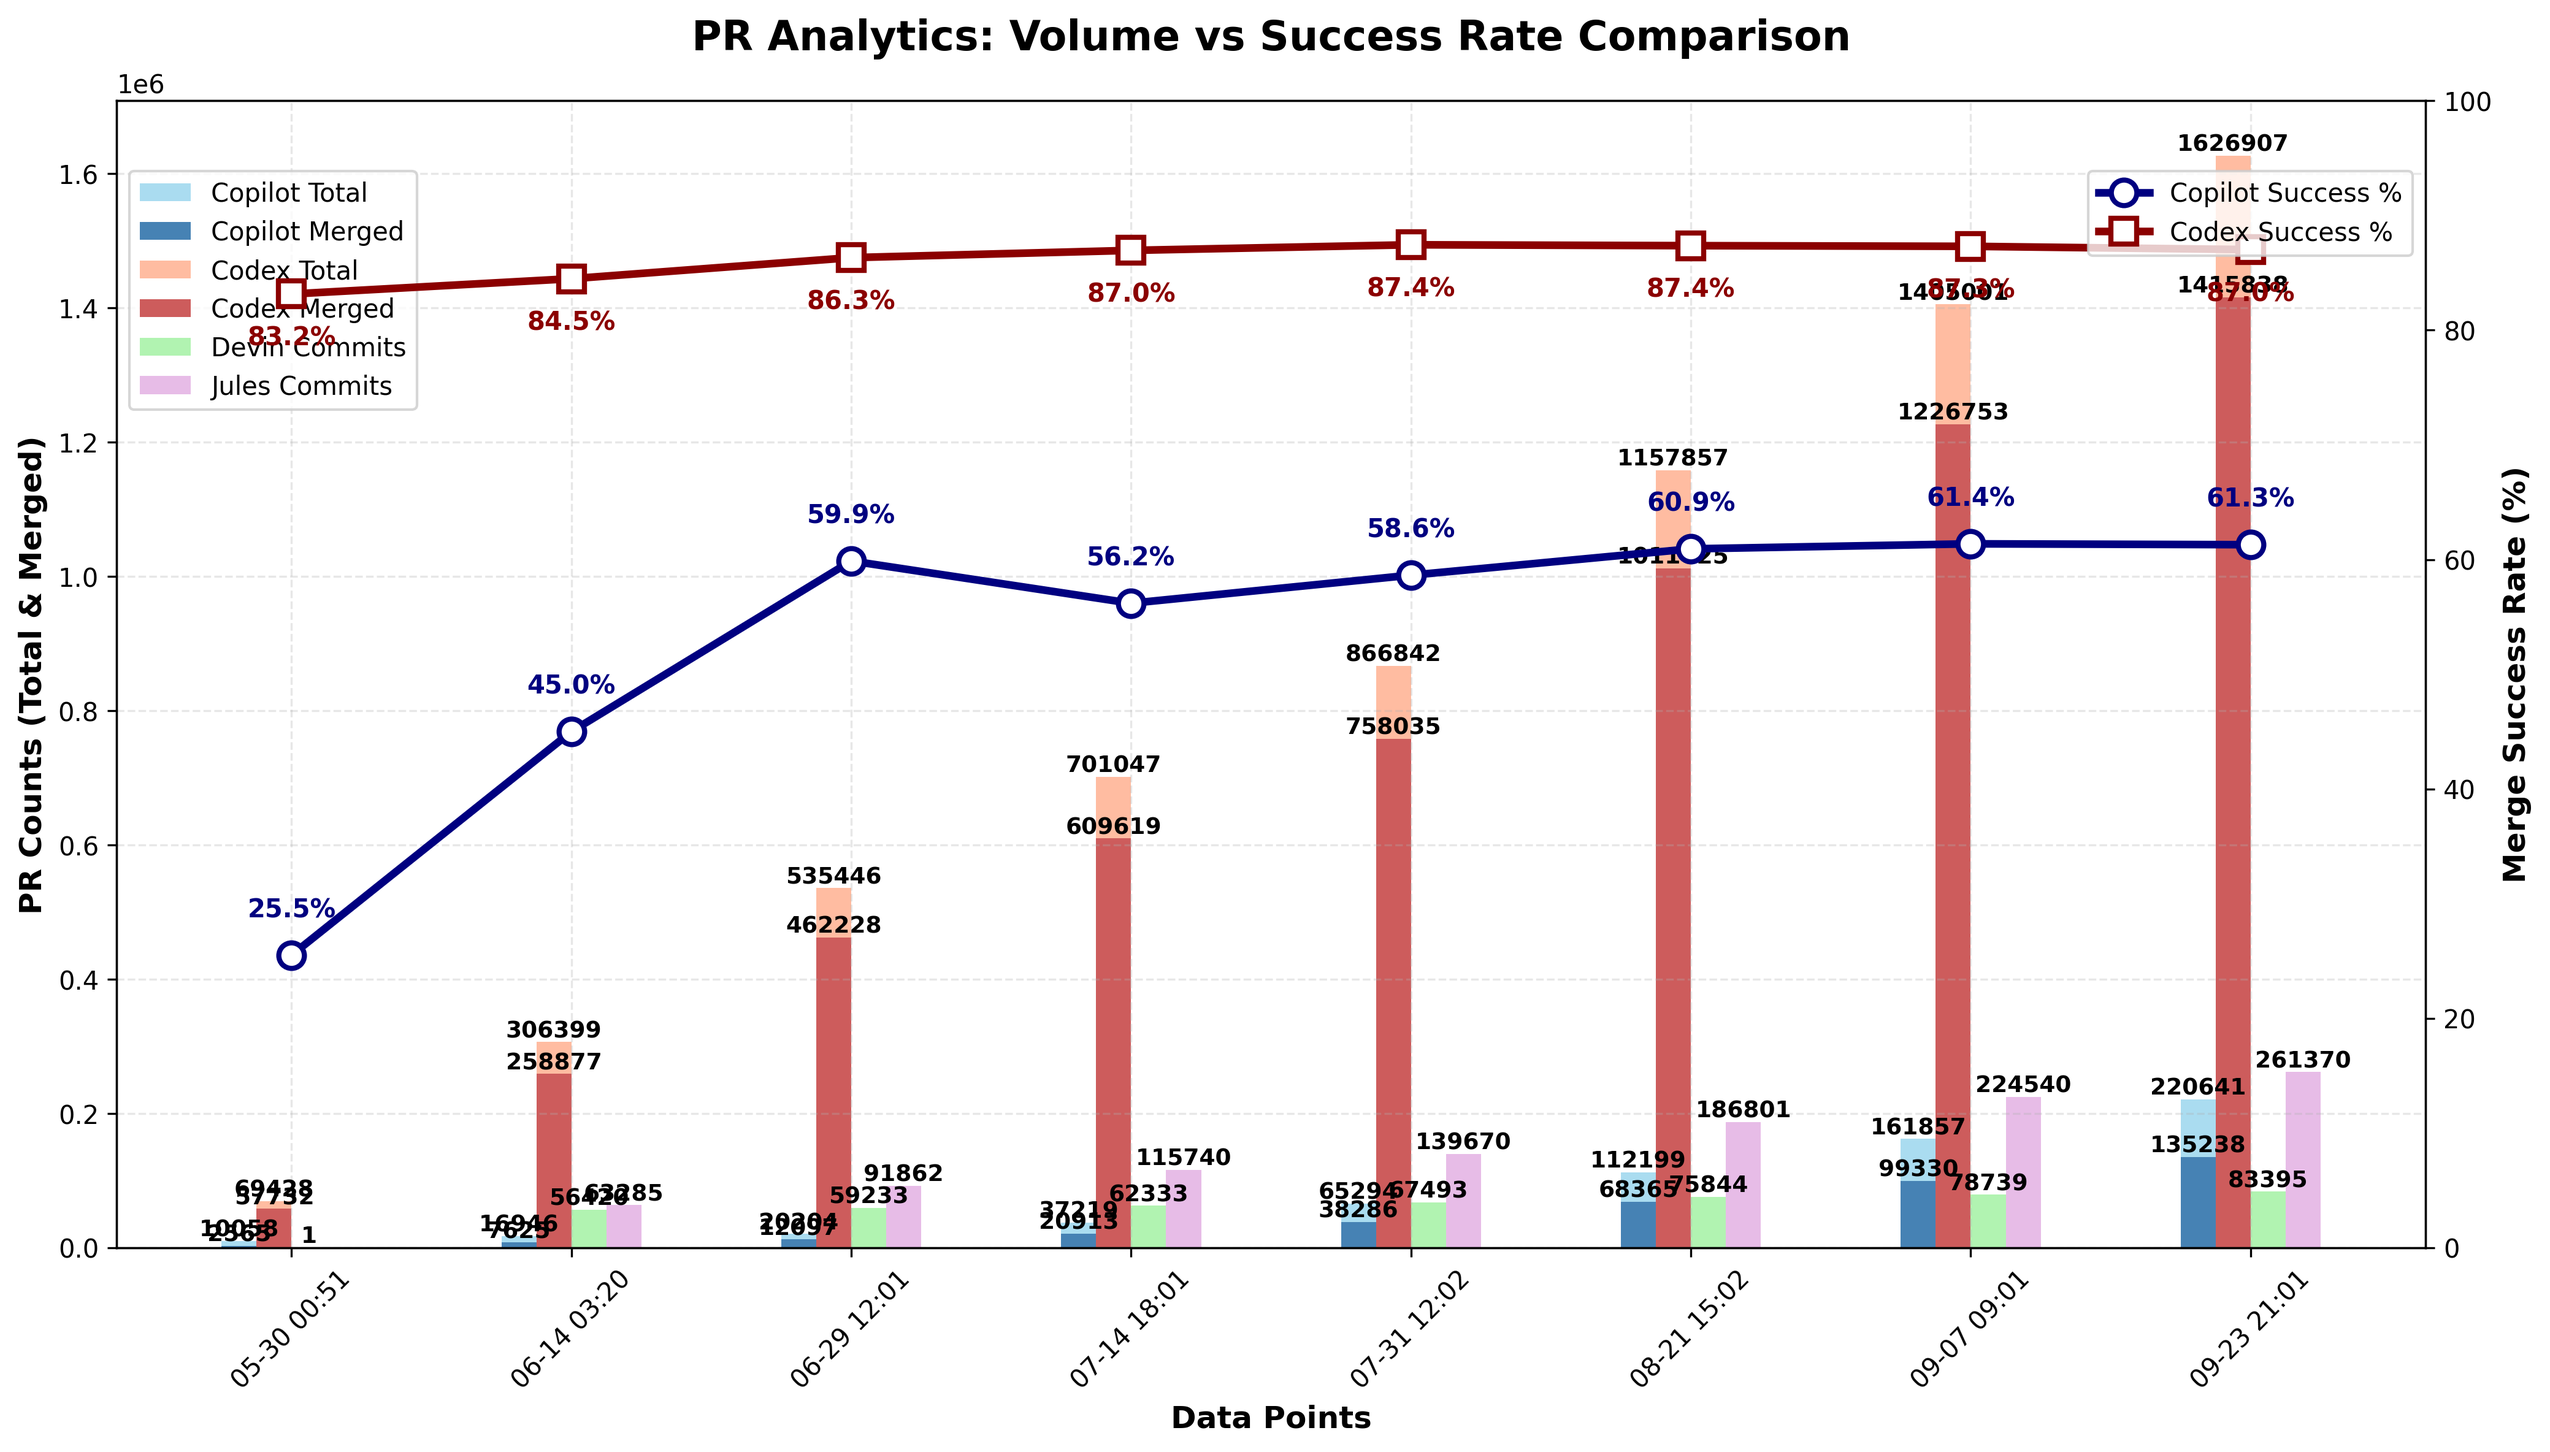
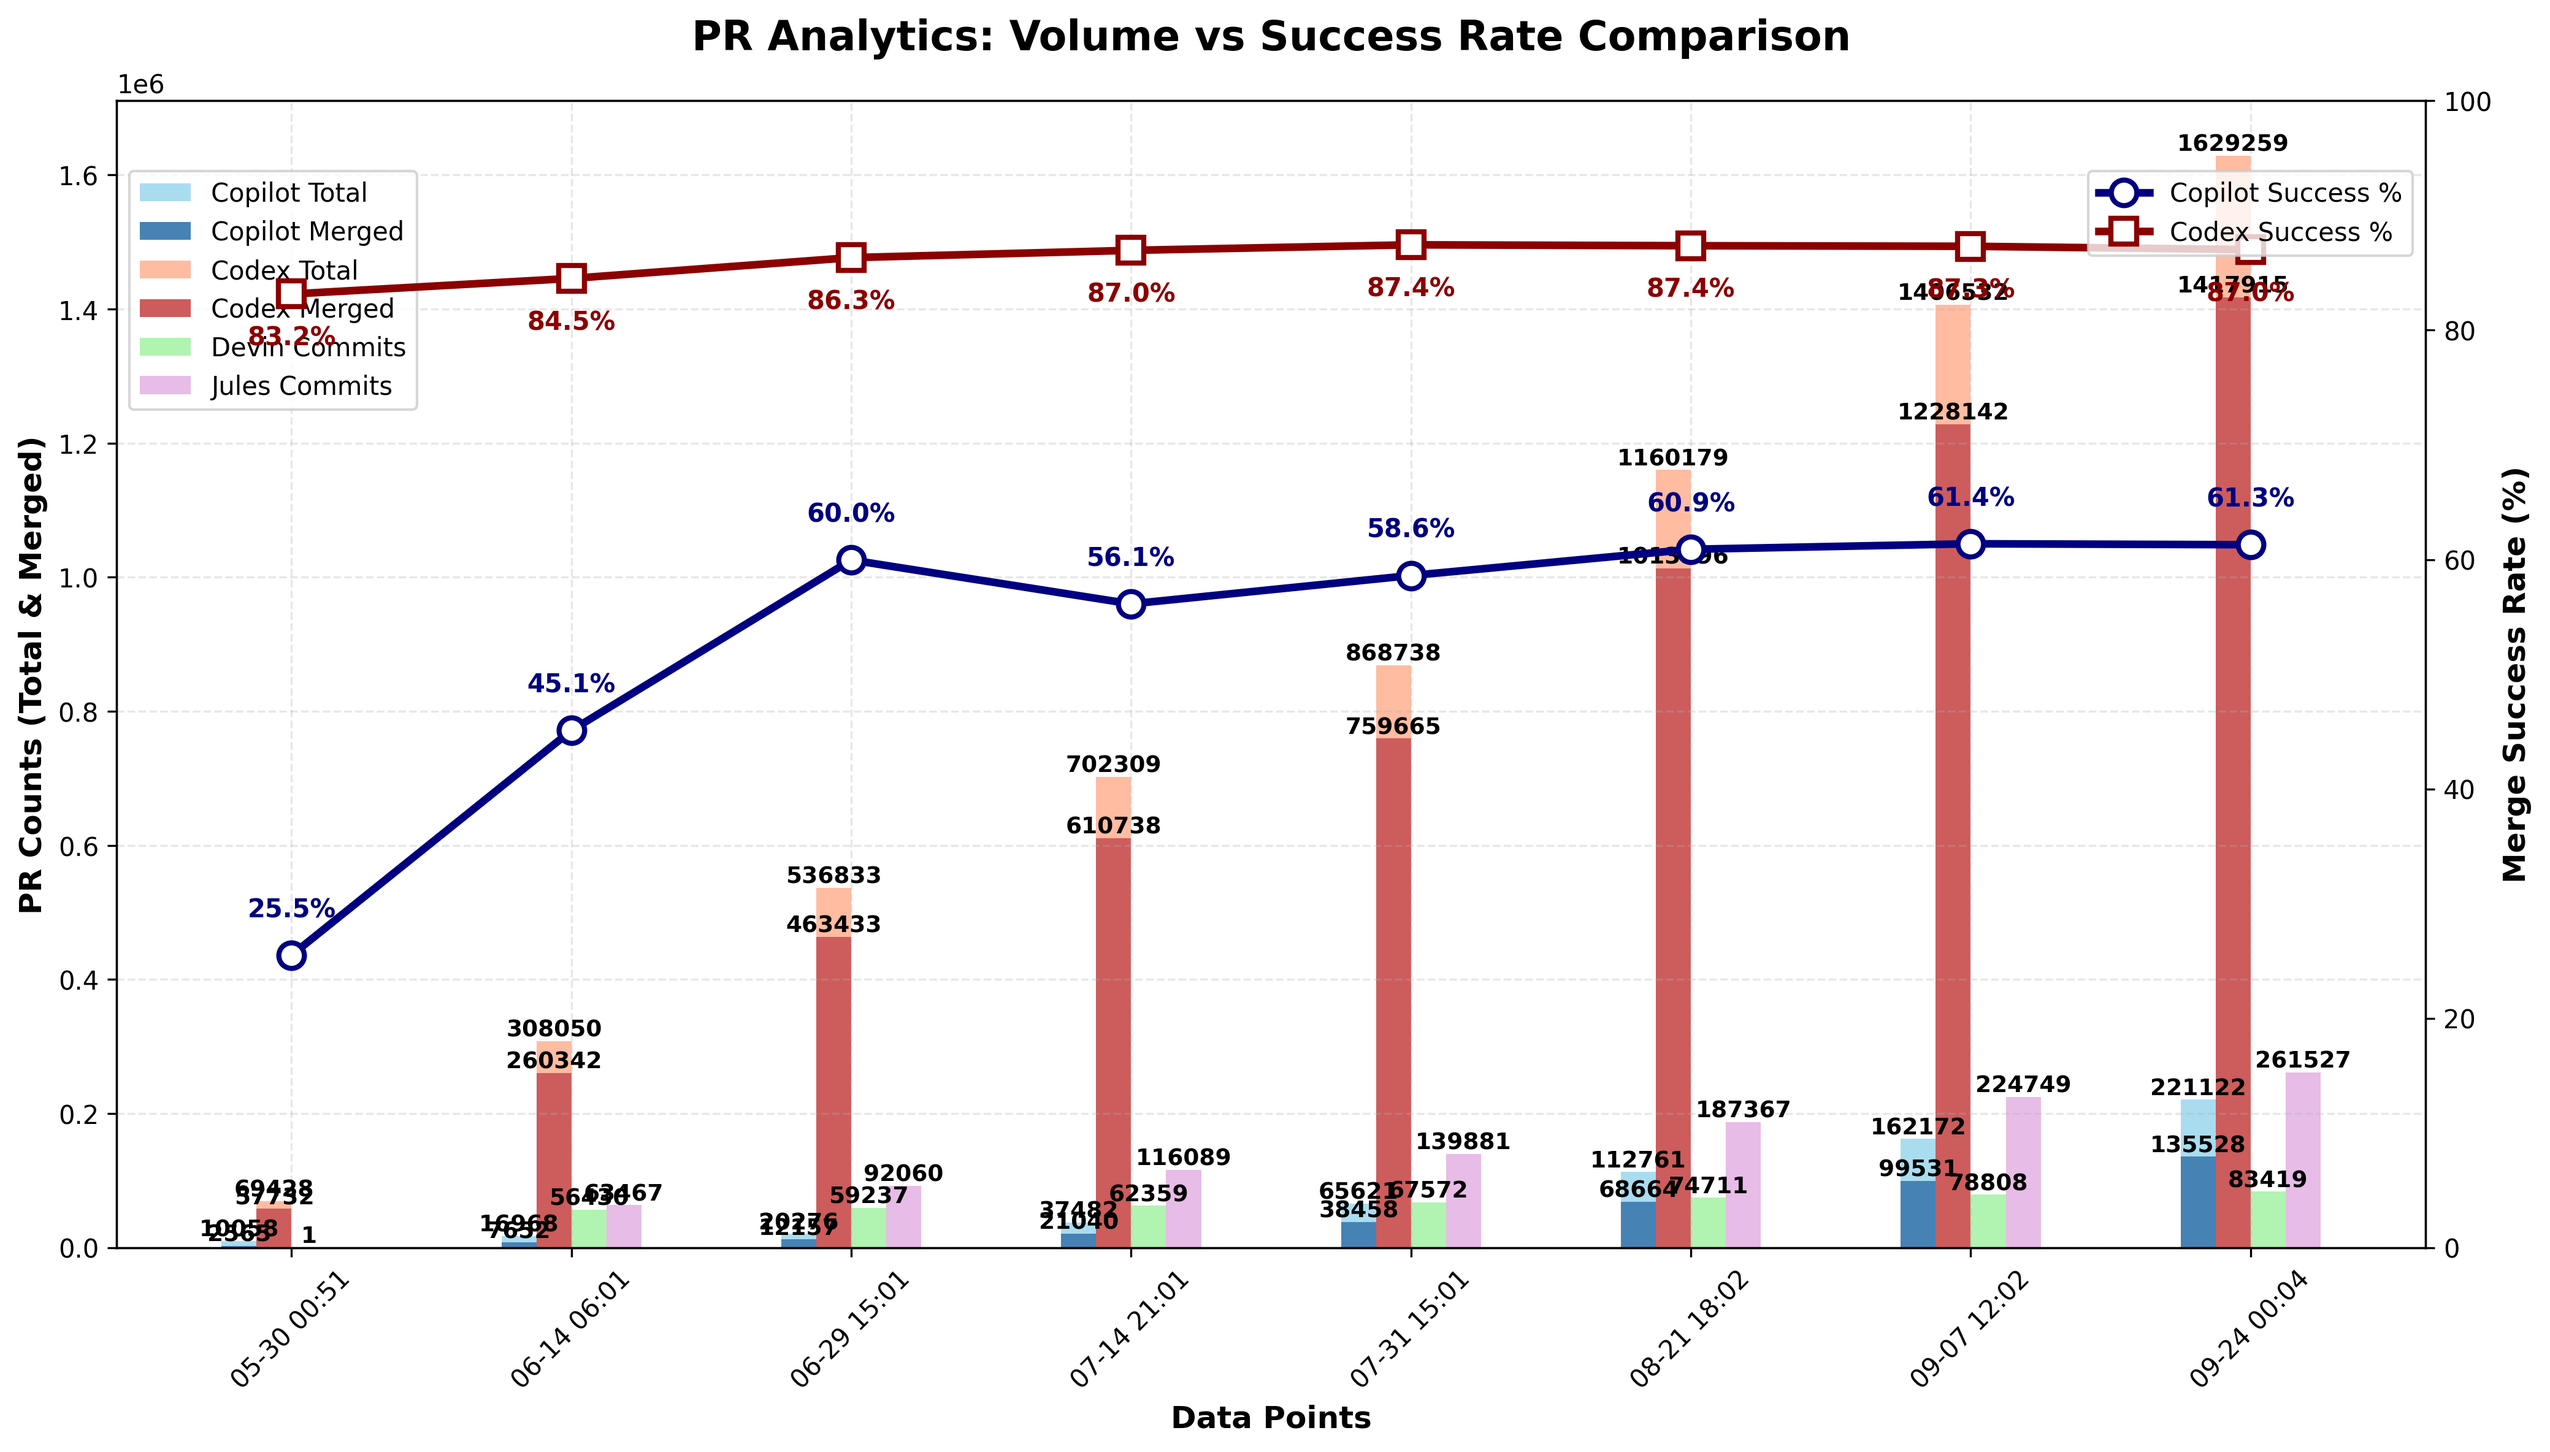
chore: update PR‑approval chart

diff --git a/docs/index.html b/docs/index.html
@@ -901,6 +901,7 @@
                         <td>N/A</td>
                         <td>N/A</td>
                         <td>N/A</td>
+                        <td>N/A</td>
                     </tr>
                     <tr>
                         <td>Codex</td>
@@ -1760,27 +1761,28 @@
                         <td>N/A</td>
                         <td>N/A</td>
                         <td>N/A</td>
+                        <td>N/A</td>
                     </tr>
                 <tr>
                         <td>Devin</td>
                         <td>N/A</td>
                         <td>N/A</td>
                         <td>N/A</td>
-                        <td>83,395</td>
+                        <td>83,419</td>
                     </tr>
                     <tr>
                         <td>Jules</td>
                         <td>N/A</td>
                         <td>N/A</td>
                         <td>N/A</td>
-                        <td>261,370</td>
+                        <td>261,527</td>
                     </tr>
                     </tbody>
             </table>
         </section>
 
         <footer>
-            <p>Last updated: <span id="last-updated">September 23, 2025 21:01 UTC</span></p>
+            <p>Last updated: <span id="last-updated">September 24, 2025 00:04 UTC</span></p>
             <p><a href="https://github.com/aavetis/ai-pr-watcher">View on GitHub</a></p>
         </footer>
     </div>

diff --git a/README.md b/README.md
@@ -19,7 +19,7 @@ Explore the GitHub search queries used:
 
 | Service | Total PRs | Merged PRs | Merge Rate | Total Commits |
 | ------- | --------- | ---------- | ---------- | ------------- |
-| Copilot | 220,641 | 135,238 | 61.29% | N/A           |
-| Codex   | 1,626,907 | 1,415,838 | 87.03% | N/A           |
-| Devin   | N/A       | N/A        | N/A        | 83,395 |
-| Jules   | N/A       | N/A        | N/A        | 261,370 |
+| Copilot | 221,122 | 135,528 | 61.29% | N/A           |
+| Codex   | 1,629,259 | 1,417,915 | 87.03% | N/A           |
+| Devin   | N/A       | N/A        | N/A        | 83,419 |
+| Jules   | N/A       | N/A        | N/A        | 261,527 |
